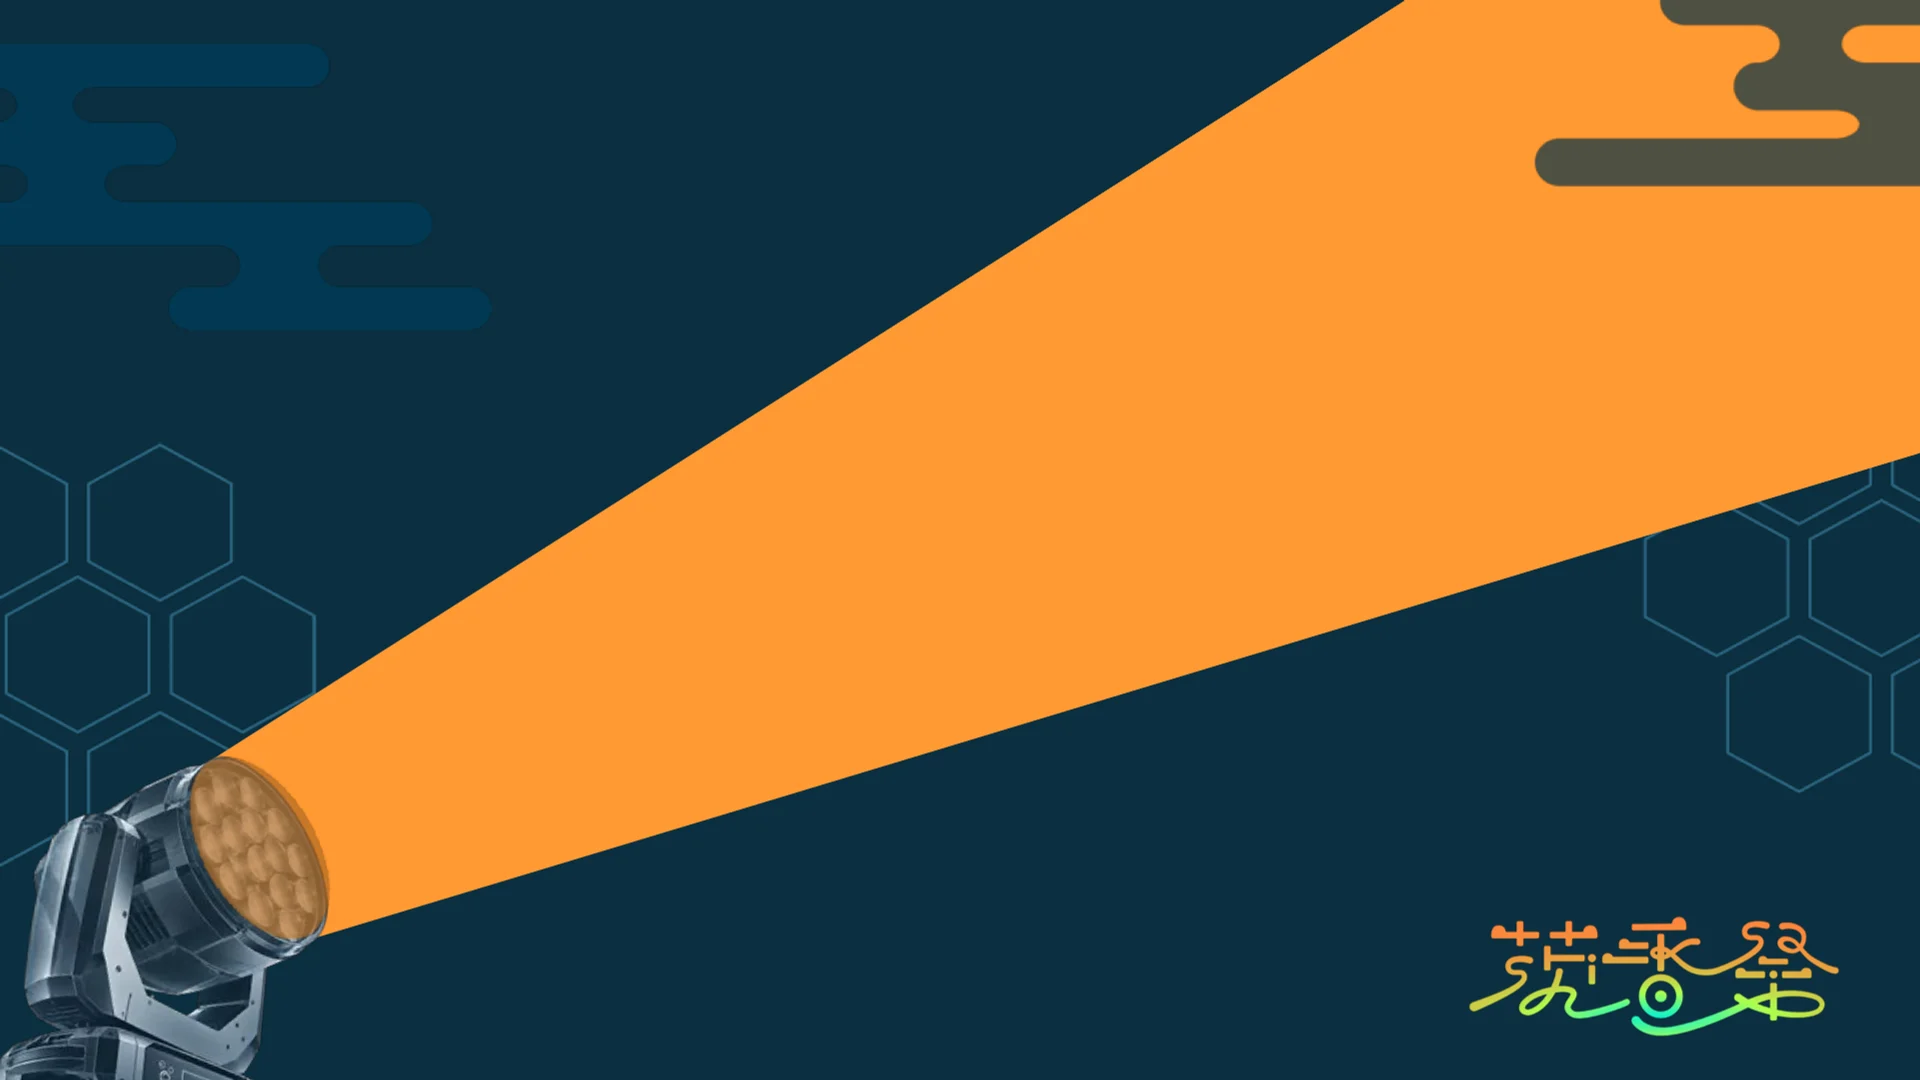
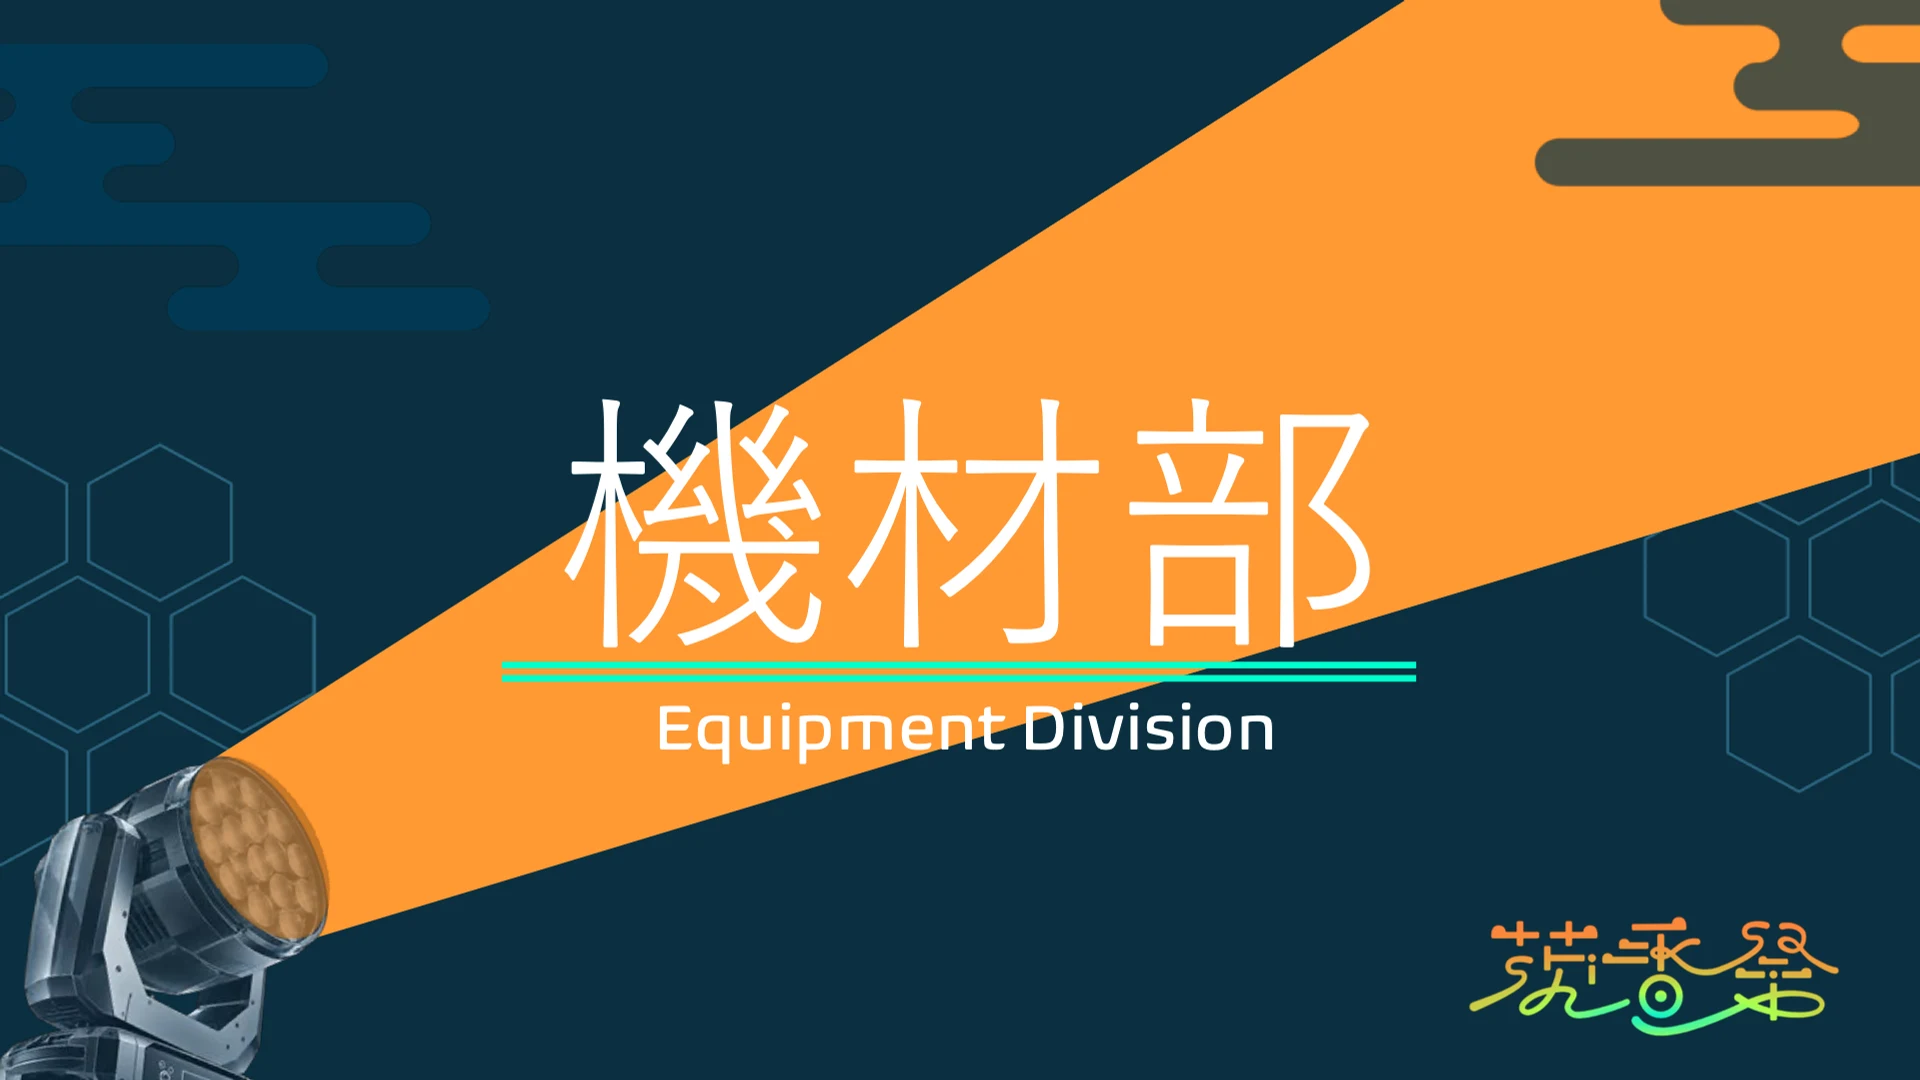
feat: 見出しバナーの完成画像をそのまま表示する
部署ごとに完成したバナー画像（bannerImage、文字入り）があれば、文字を重ねずそのまま表示する。
画像の中の文字は読み上げられないため、部署名と英語名は見えない見出しとして添える。
機材部はスライドの1枚目（文字入り）に差し替える。

Changed region(s): [[0.25, 0.3667, 0.75, 0.7028]]

diff --git a/src/content.config.ts b/src/content.config.ts
@@ -278,7 +278,7 @@ const staff = defineCollection({
 			.default([]),
 		/** 見出しバナーに添える英語名（例: Equipment Division）。未入力なら表示しない。 */
 		englishName: z.string().optional(),
-		/** 見出しバナーの背景画像（16:9、文字なし）。未設定ならコードで描いた光線の背景で表示する。 */
+		/** 見出しバナーの完成画像（16:9、文字入り）。未設定ならコードで描いた光線のバナーで表示する。 */
 		bannerImage: z.string().optional(),
 		description: z.string().min(1),
 		image: z.string().optional(),

diff --git a/DESIGN.md b/DESIGN.md
@@ -18,7 +18,7 @@
 
 本文の基本サイズは 16px とする。情報の重要度が下がる箇所に限って 15px または 13px を使う。長文には `leading-relaxed` を付ける。
 
-- 例外: `/staff` の部署カード冒頭（`DepartmentHeading`）の部署名と英語名は、バナー幅を基準にした大きさ（`cqw`）にする。光線（`bg-main`）にまたがるため、文字を 2 枚重ねて光線の外は `text-text`、中は `text-on-main` に出し分ける。詳細は [`docs/design/03-design.md`](docs/design/03-design.md) の 3.7.1 を参照。
+- 例外: `/staff` の部署カード冒頭（`DepartmentHeading`）の部署名と英語名は、バナー幅を基準にした大きさ（`cqw`）にする。光線（`bg-main`）にまたがるため、文字を 2 枚重ねて光線の外は `text-text`、中は `text-on-main` に出し分ける。部署ごとの完成画像（`bannerImage`）がある場合は、文字を重ねずそのまま表示する。詳細は [`docs/design/03-design.md`](docs/design/03-design.md) の 3.7.1 を参照。
 
 ## Color and contrast
 
